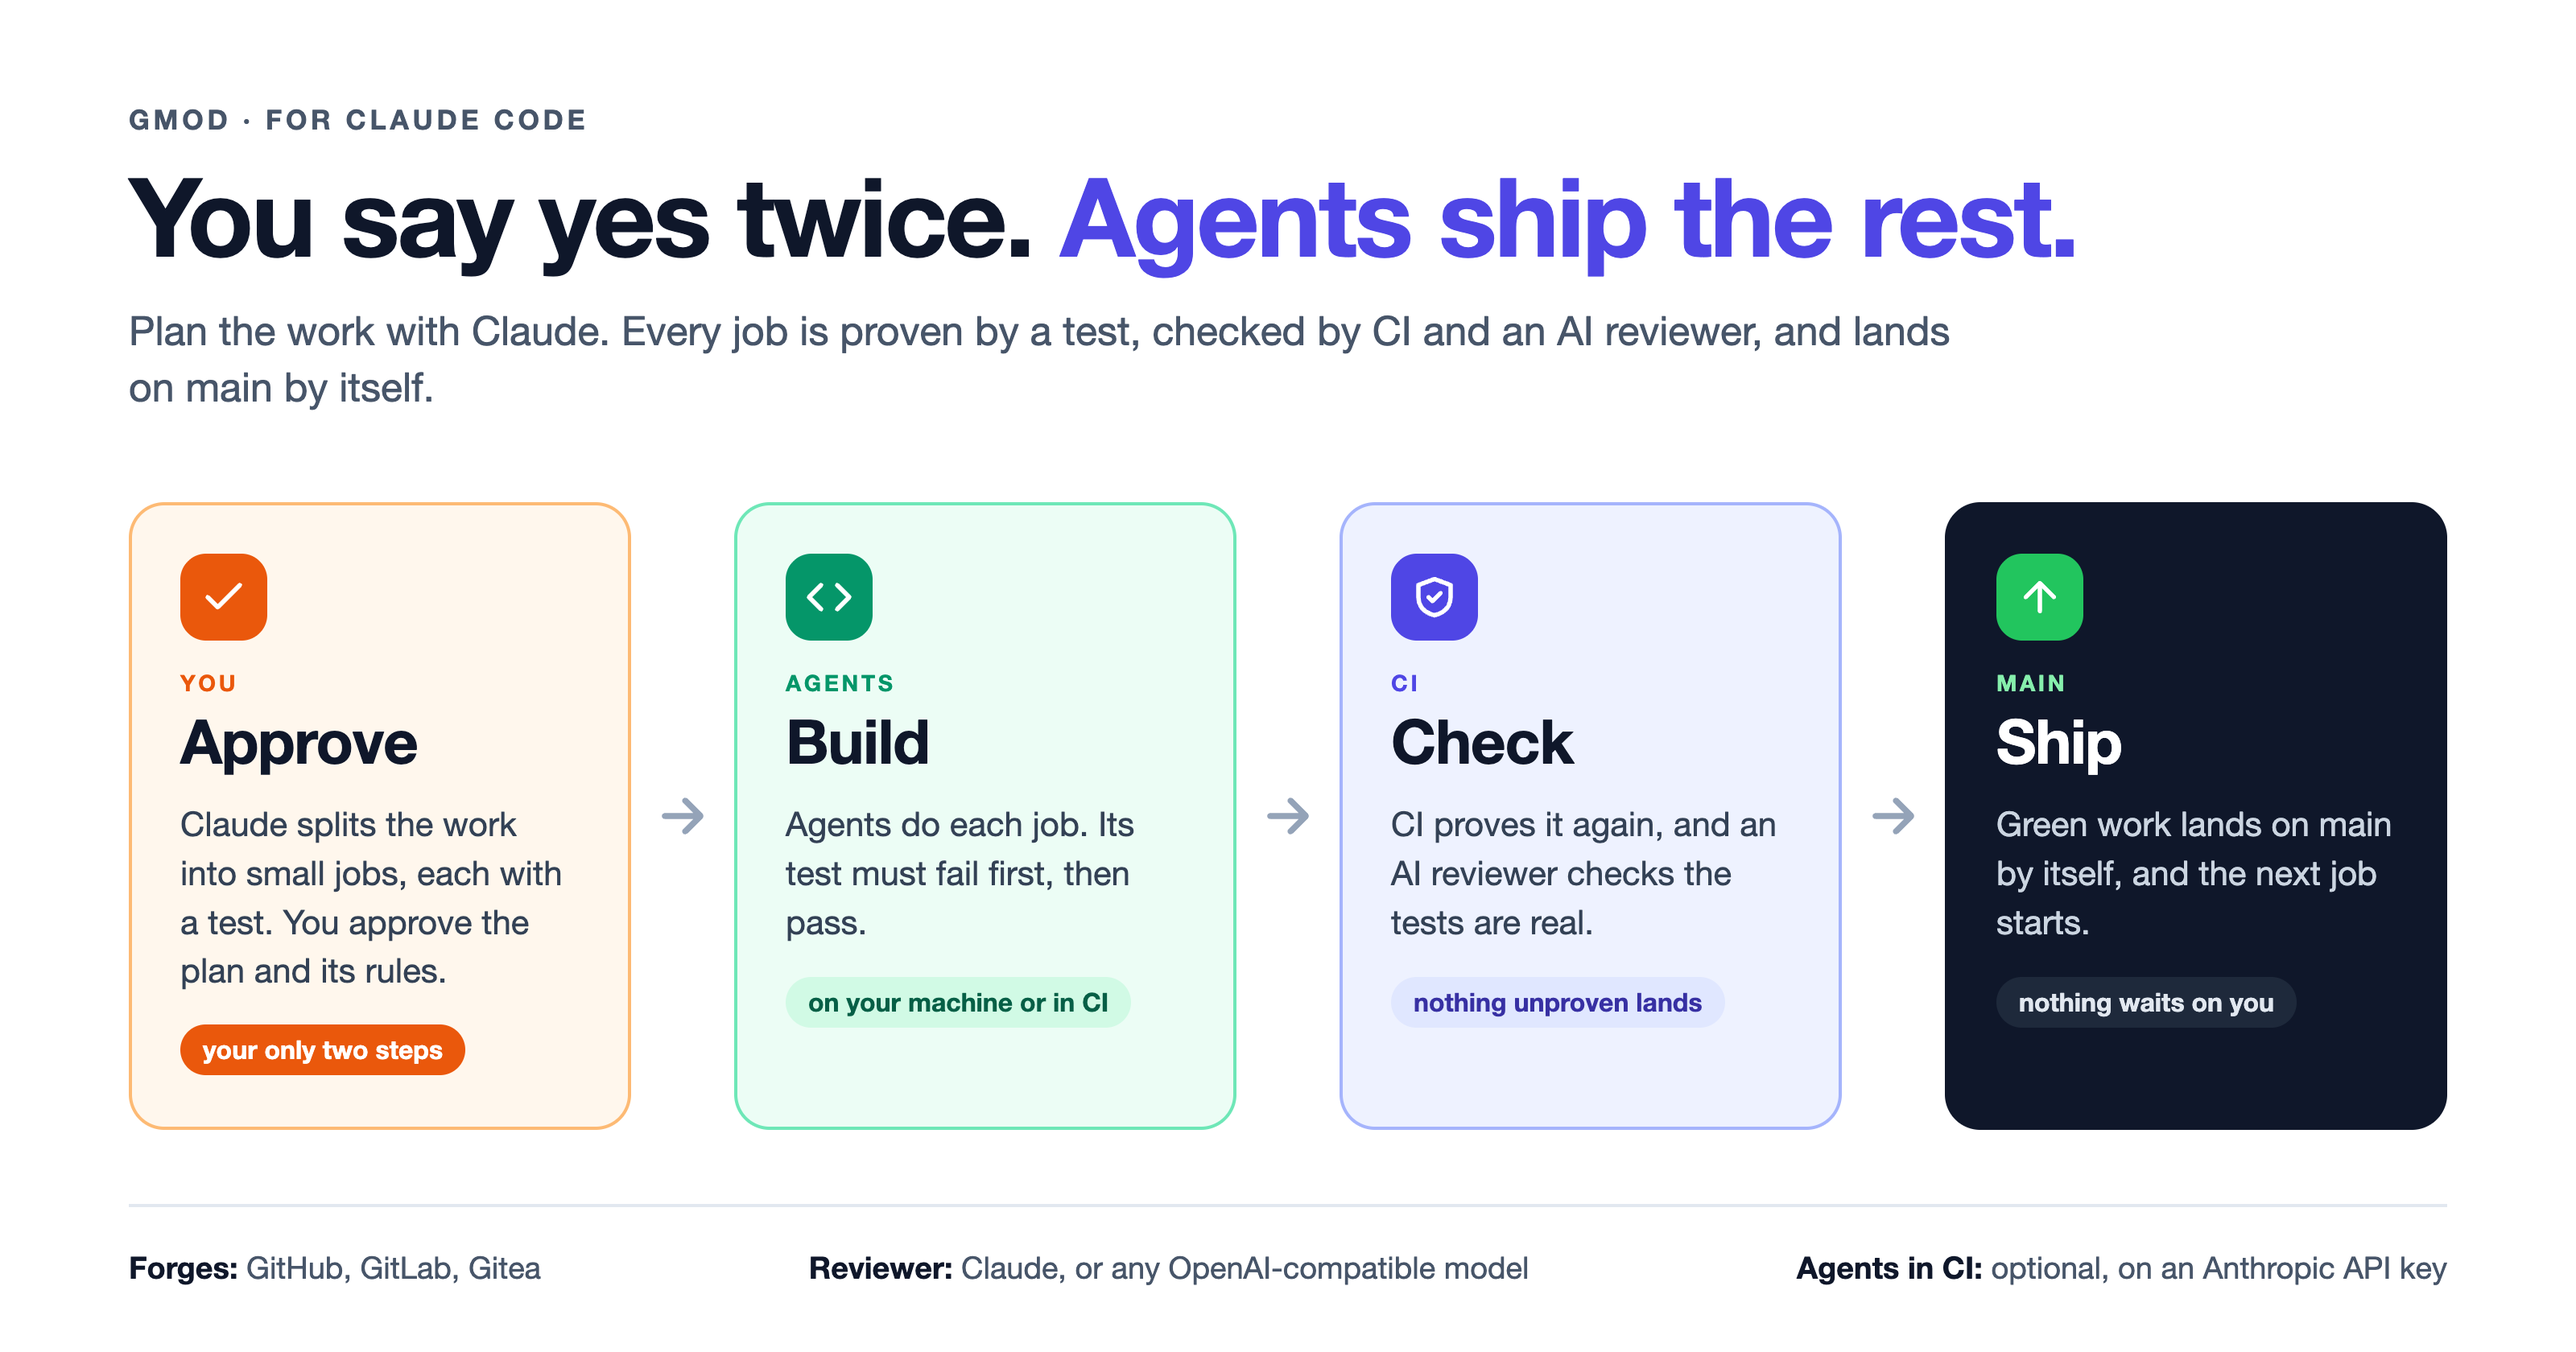
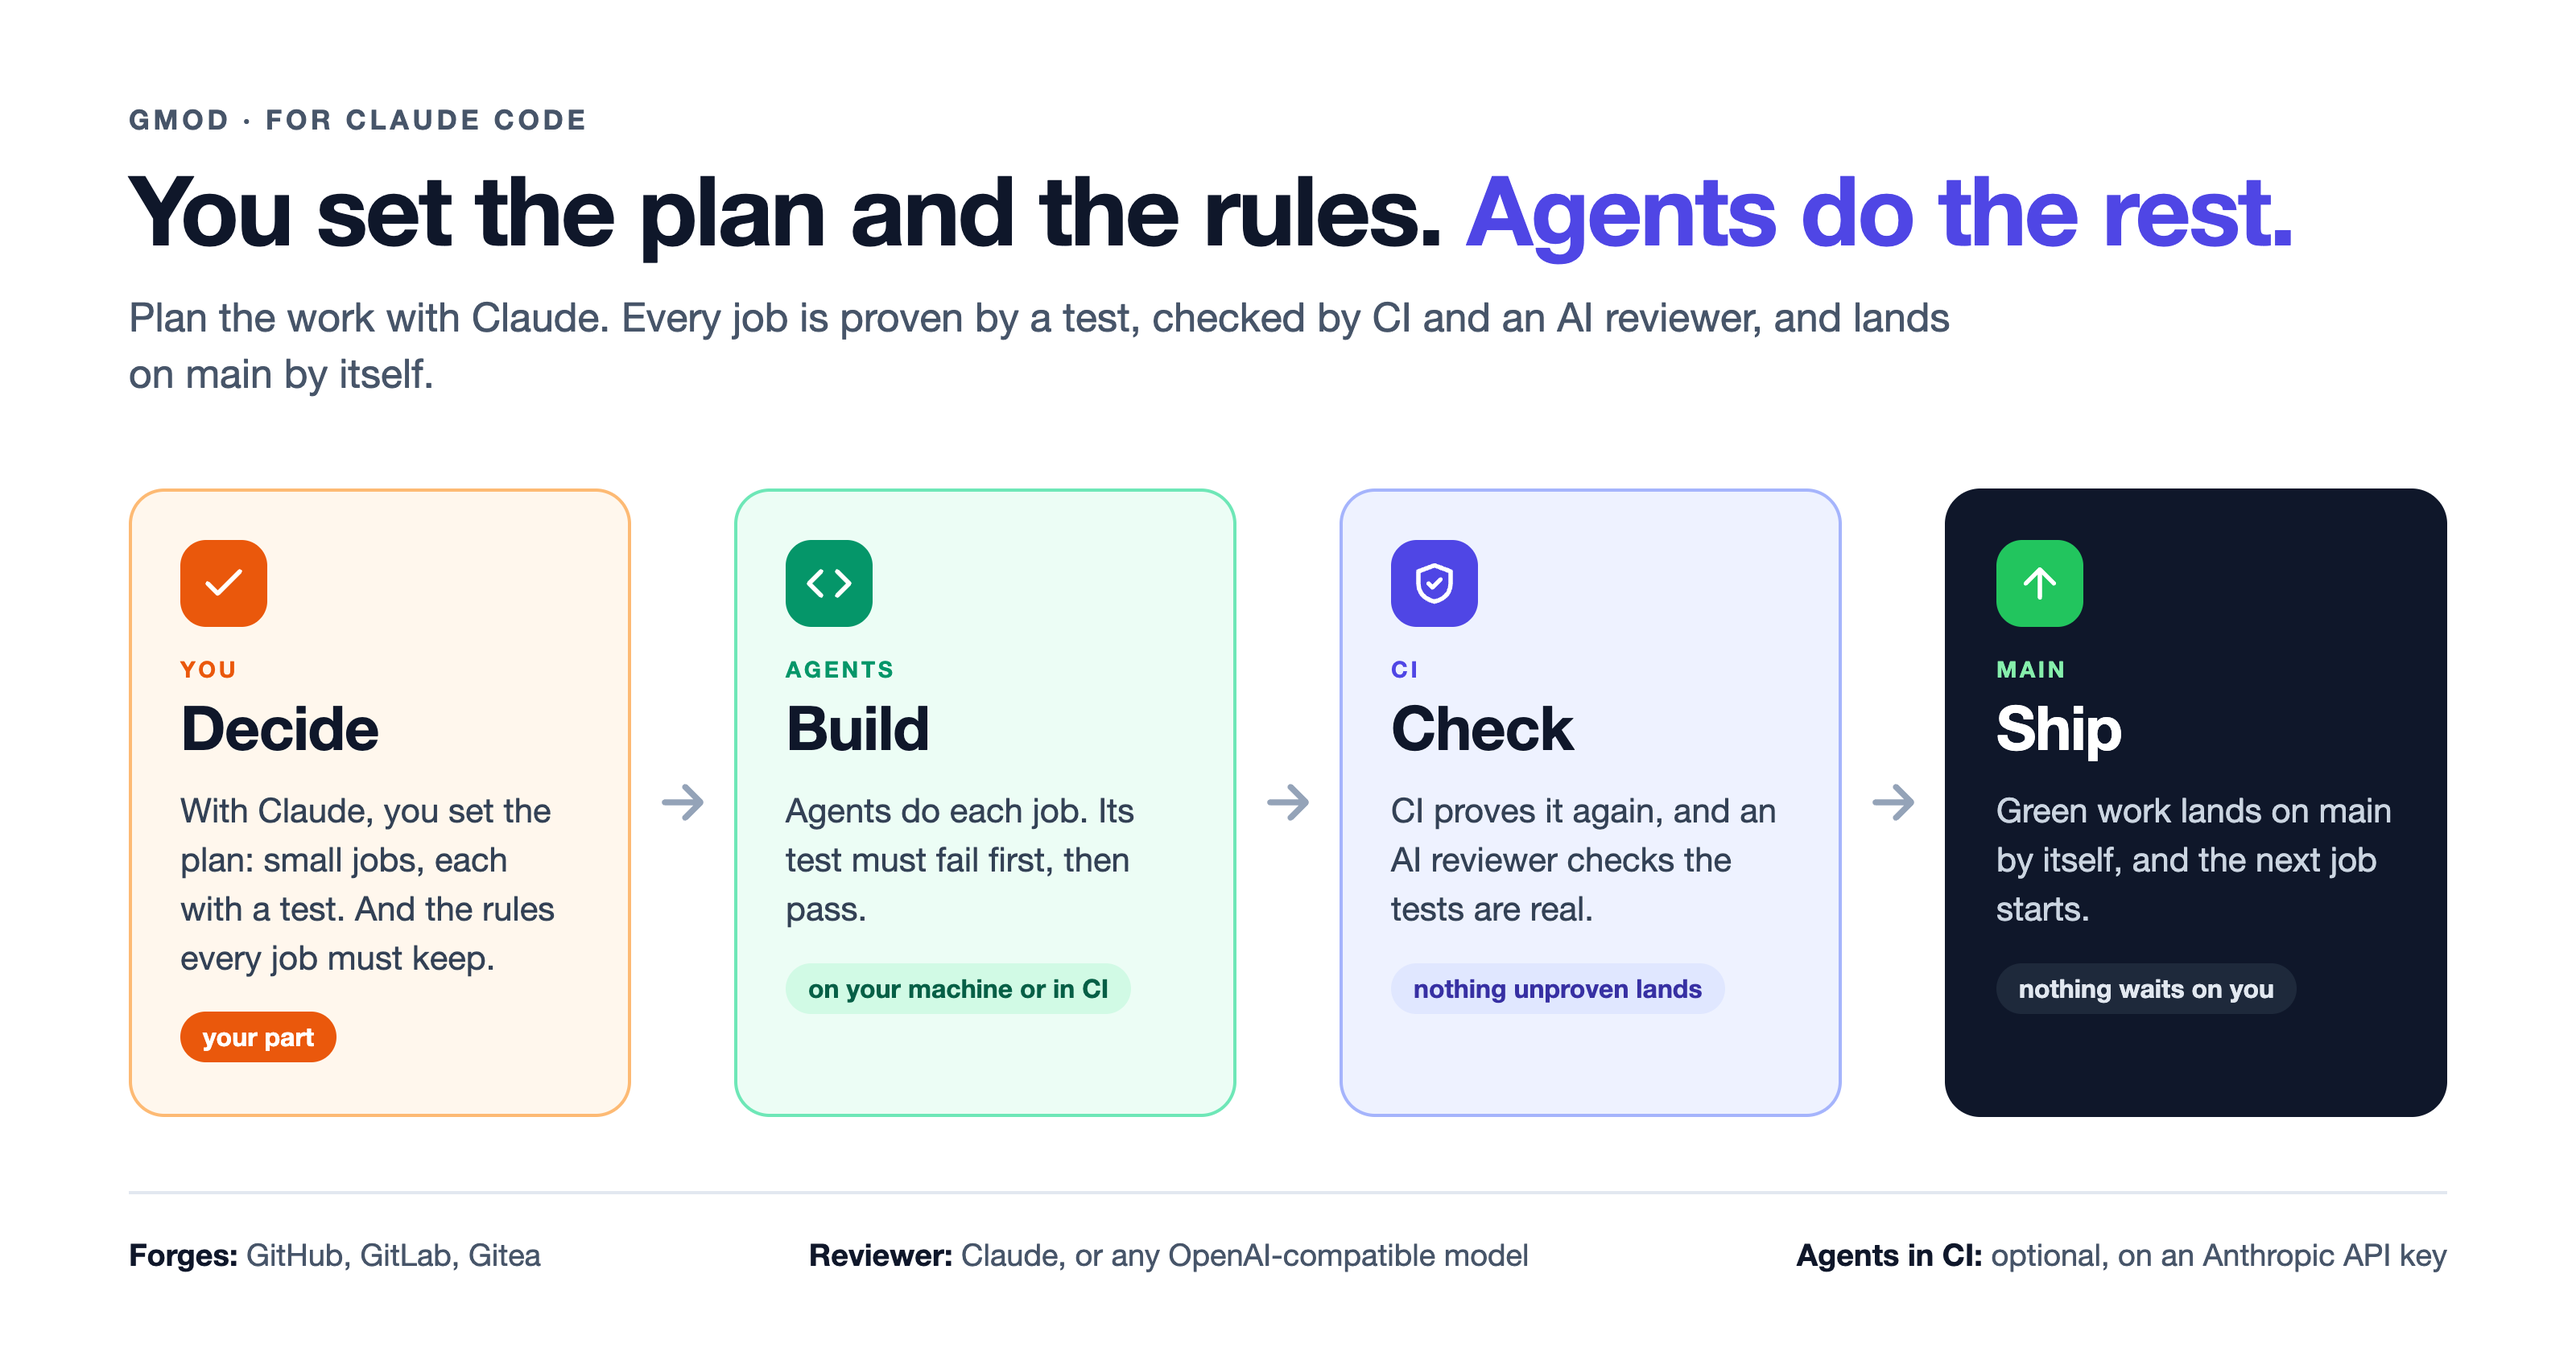
docs: say it plainly: you set the plan and the rules, agents do the rest

diff --git a/docs/assets/src/gmod-overview.html b/docs/assets/src/gmod-overview.html
@@ -18,7 +18,7 @@
   html, body { width: 1600px; height: 840px; background: #ffffff; }
   body { font-family: -apple-system, "SF Pro Display", "Inter", "Helvetica Neue", Arial, sans-serif; color: var(--ink); padding: 64px 80px; }
   .kicker { font-size: 17px; font-weight: 700; letter-spacing: .14em; color: var(--muted); text-transform: uppercase; }
-  h1 { font-size: 68px; line-height: 1.05; font-weight: 800; letter-spacing: -.025em; margin-top: 14px; }
+  h1 { font-size: 60px; line-height: 1.05; font-weight: 800; letter-spacing: -.025em; margin-top: 14px; }
   h1 span { color: var(--ci); }
   .sub { font-size: 25px; line-height: 1.4; color: var(--muted); margin-top: 18px; max-width: 1150px; }
 
@@ -53,17 +53,17 @@
 </head>
 <body>
   <div class="kicker">gmod · for Claude Code</div>
-  <h1>You say yes twice. <span>Agents ship the rest.</span></h1>
+  <h1>You set the plan and the rules. <span>Agents do the rest.</span></h1>
   <div class="sub">Plan the work with Claude. Every job is proven by a test, checked by CI and an AI reviewer, and lands on main by itself.</div>
 
   <div class="flow">
     <div class="step you">
       <div class="head">
         <div class="icon"><svg viewBox="0 0 24 24"><path d="M20 6 9 17l-5-5"/></svg></div>
-        <div><div class="who">You</div><div class="title">Approve</div></div>
+        <div><div class="who">You</div><div class="title">Decide</div></div>
       </div>
-      <div class="text">Claude splits the work into small jobs, each with a test. You approve the plan and its rules.</div>
-      <span class="tag">your only two steps</span>
+      <div class="text">With Claude, you set the plan: small jobs, each with a test. And the rules every job must keep.</div>
+      <span class="tag">your part</span>
     </div>
     <div class="arrow"><svg viewBox="0 0 24 24" fill="none" stroke="currentColor" stroke-width="2.4" stroke-linecap="round" stroke-linejoin="round"><path d="M5 12h14M13 6l6 6-6 6"/></svg></div>
 

diff --git a/docs/assets/src/gmod-plan.html b/docs/assets/src/gmod-plan.html
@@ -41,11 +41,11 @@
 </head>
 <body>
   <div class="kicker">gmod · planning and rules</div>
-  <h1>Your two yeses decide everything. <span>The rest enforces them.</span></h1>
+  <h1>You set the plan and the rules. <span>The rest enforces them.</span></h1>
   <div class="sub">Agents build the jobs you approve, CI proves the criteria you approve, and the review holds every change to the rules you accept.</div>
   <div class="row">
     <div class="card yes">
-      <div class="label"><span class="num">1</span>Yes to</div>
+      <div class="label"><span class="num">1</span>You set</div>
       <div class="name">The plan</div>
       <div class="q">what to build, and how it's proven</div>
       <ul>
@@ -56,7 +56,7 @@
       </ul>
     </div>
     <div class="card yes">
-      <div class="label"><span class="num">2</span>Yes to</div>
+      <div class="label"><span class="num">2</span>You set</div>
       <div class="name">The rules</div>
       <div class="q">what must always hold</div>
       <ul>
@@ -75,7 +75,7 @@
         <li>an agent gets only its job, its files, and the rules that cover them</li>
         <li>the gate proves the job's criteria fail first, then pass</li>
         <li>the review checks each criterion and answers each rule</li>
-        <li>agents can't change the plan or the rules; only your yes can</li>
+        <li>agents can't change the plan or the rules; only you can</li>
       </ul>
     </div>
   </div>

diff --git a/README.md b/README.md
@@ -1,6 +1,6 @@
 # gmod
 
-**You say yes twice. Agents ship the rest.**
+**You set the plan and the rules. Agents do the rest.**
 
 Plan your work with Claude. Agents build it, prove it works, and land it on `main`, working beside you or on their own in CI.
 
@@ -12,13 +12,13 @@ Plan your work with Claude. Agents build it, prove it works, and land it on `mai
 
 ## How it works
 
-![gmod in four steps: you approve the plan and its rules; agents build each job, its test failing first and then passing; CI proves it again and an AI reviewer checks the tests are real; green work lands on main by itself](docs/assets/gmod-overview.png)
+![gmod in four steps: you set the plan and the rules; agents build each job, its test failing first and then passing; CI proves it again and an AI reviewer checks the tests are real; green work lands on main by itself](docs/assets/gmod-overview.png)
 
-## Your two yeses matter most
+## The plan and the rules matter most
 
-![Your two yeses decide everything; the rest enforces them. Yes to the plan: small jobs, the files each may touch, done-when criteria each proven by a command, and the order. Yes to the rules: a data format, a boundary, a library or a security rule, with must and should. From then on, agents get only their job, its files and the rules that cover them, the gate proves the criteria, the review answers each rule, and agents can't change the plan or the rules](docs/assets/gmod-plan.png)
+![You set the plan and the rules; everything after enforces them. The plan: small jobs, the files each may touch, done-when criteria each proven by a command, and the order. The rules: a data format, a boundary, a library or a security rule, with must and should. From then on, agents get only their job, its files and the rules that cover them, the gate proves the criteria, the review answers each rule, and agents can't change the plan or the rules](docs/assets/gmod-plan.png)
 
-Everything after your yes enforces what you approved, nothing more. The gate proves exactly the criteria in the plan, so a vague criterion gets you vaguely proven work, and a rule you never wrote is never enforced. Take the planning session seriously, and settle the rules that shape everything (data formats, boundaries, libraries, security) before agents start. How: [planning and rules](docs/planning.md).
+Everything after enforces the plan and the rules you set, nothing more. The gate proves exactly the criteria in the plan, so a vague criterion gets you vaguely proven work, and a rule you never wrote is never enforced. Take the planning session seriously, and settle the rules that shape everything (data formats, boundaries, libraries, security) before agents start. How: [planning and rules](docs/planning.md).
 
 ## Install
 

diff --git a/docs/planning.md b/docs/planning.md
@@ -1,8 +1,8 @@
 # Planning and rules: where your judgment goes
 
-![Your two yeses decide everything; the rest enforces them. Yes to the plan: what to build and how it's proven, small jobs, the files each may touch, done-when criteria in plain words each proven by a command, and the order. Yes to the rules: what must always hold, a data format, a boundary, a library or a security rule, the files each governs, must and should. From then on, on every change, agents get only their job, its files and the rules that cover them; the gate proves the criteria fail first then pass; the review checks each criterion and answers each rule; agents can't change the plan or the rules. Before you approve: would this criterion fail if the job were wrong, are the files tight, are the assumptions mine, is every must checkable in a diff](assets/gmod-plan.png)
+![You set the plan and the rules; everything after enforces them. The plan: what to build and how it's proven, small jobs, the files each may touch, done-when criteria in plain words each proven by a command, and the order. The rules: what must always hold, a data format, a boundary, a library or a security rule, the files each governs, must and should. From then on, on every change, agents get only their job, its files and the rules that cover them; the gate proves the criteria fail first then pass; the review checks each criterion and answers each rule; agents can't change the plan or the rules. Before you approve: would this criterion fail if the job were wrong, are the files tight, are the assumptions mine, is every must checkable in a diff](assets/gmod-plan.png)
 
-You say yes twice: to the plan, and to the rules. Everything after is agents doing what you approved and CI holding them to it. That makes the planning session the most important hour you spend with gmod. The gate proves exactly the criteria you approved, no more. A vague criterion gets you vaguely proven work; a missing rule is never enforced.
+You set the plan and the rules. Everything after is agents doing what you set and CI holding them to it. That makes the planning session the most important hour you spend with gmod. The gate proves exactly the criteria you approved, no more. A vague criterion gets you vaguely proven work; a missing rule is never enforced.
 
 ## The plan: what to build, and how it's proven
 
